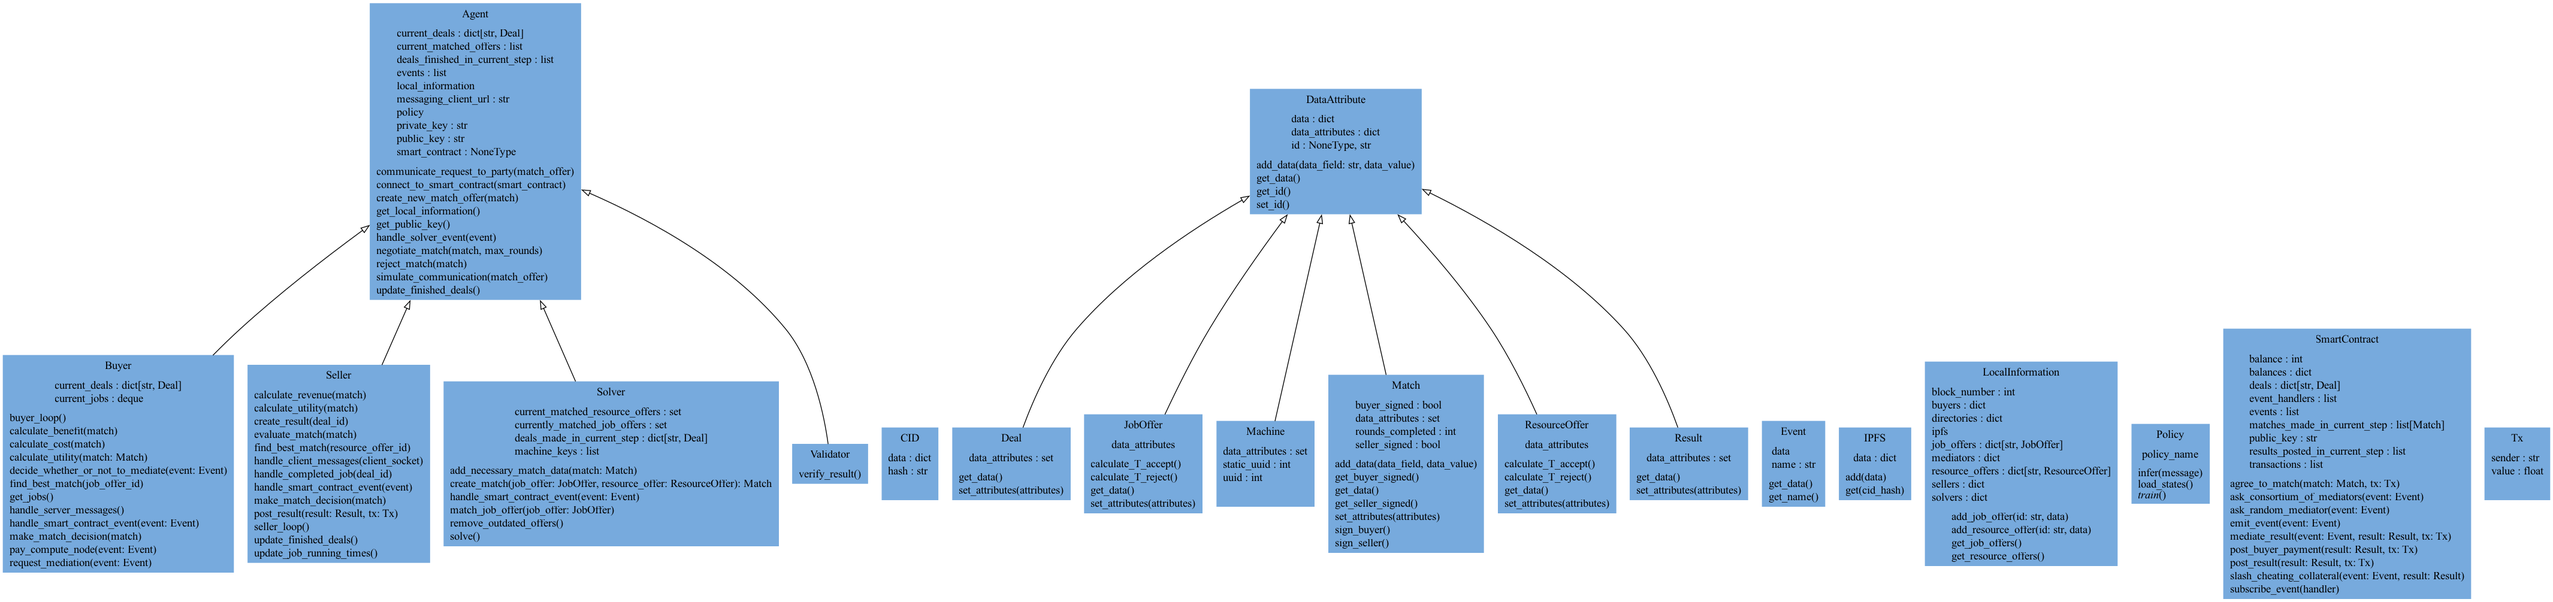
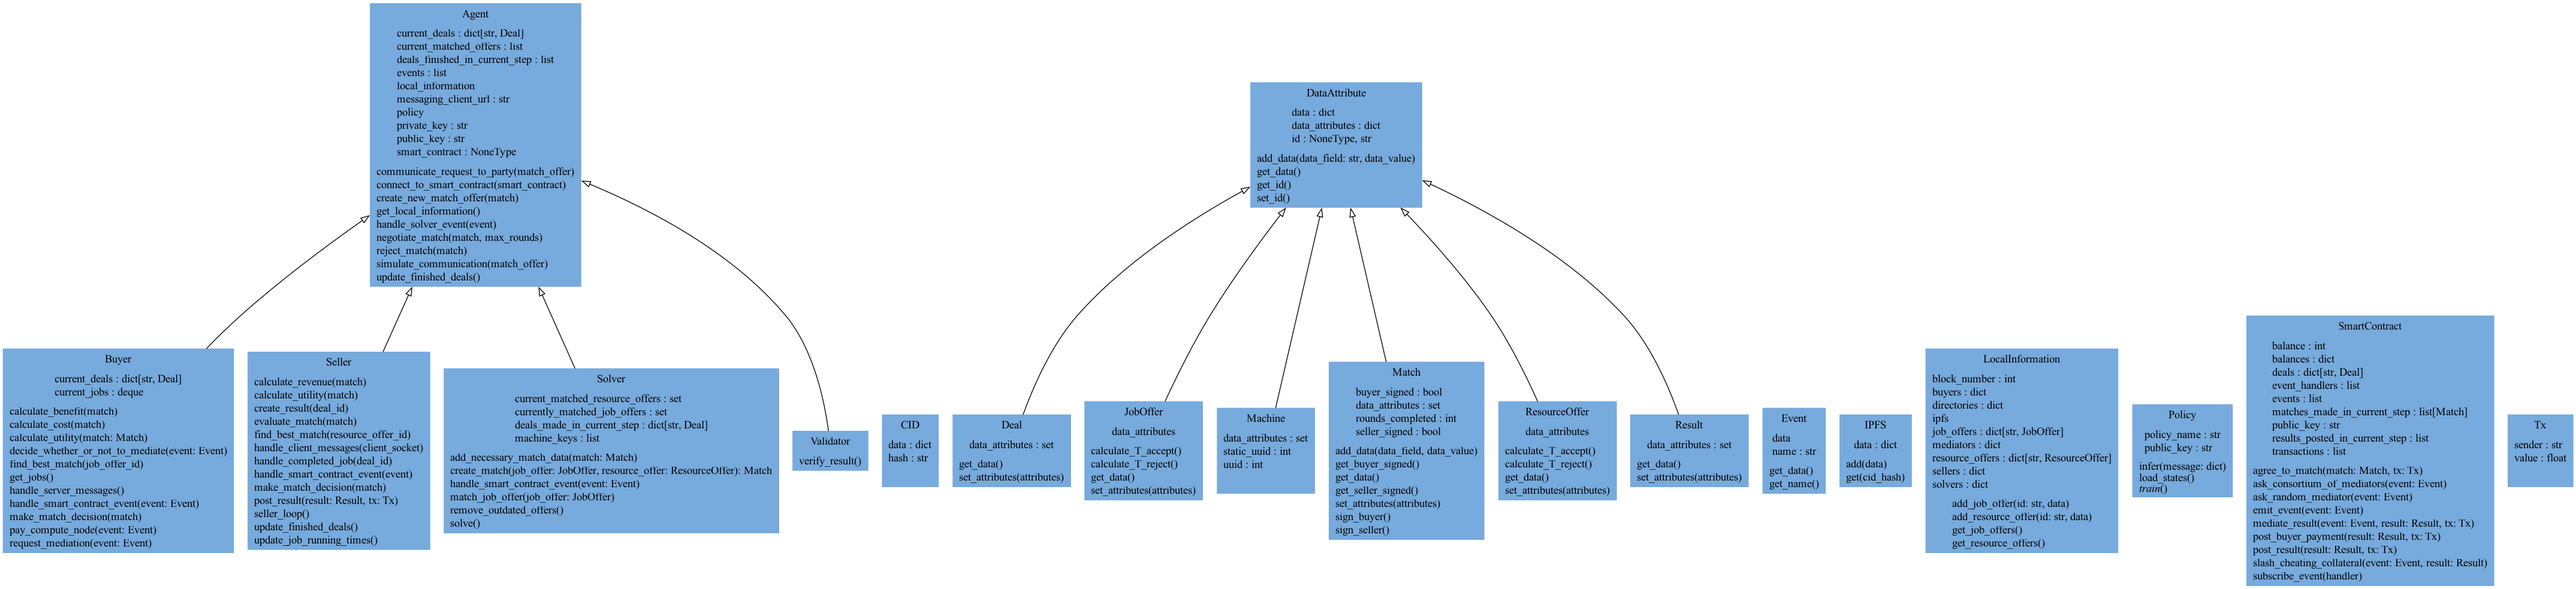
fix: scheme-compliant inference

diff --git a/tests/test_buyer.py b/tests/test_buyer.py
@@ -40,7 +40,7 @@ def setup_buyer():
             public_key_seller: 500,
         }
         buyer._create_transaction = lambda value: Tx(
-            sender=buyer.get_public_key(), value=value
+            sender=buyer.public_key, value=value
         )
         return buyer, smart_contract, match
 
@@ -166,119 +166,6 @@ def test_update_finished_deals(setup_buyer):
     assert (
         len(buyer.deals_finished_in_current_step) == 0
     )  # check if deals_finished_in_current_step is cleared
-
-
-def test_buyer_loop(setup_buyer):
-    """Test the buyer_loop method."""
-    buyer, _, _ = setup_buyer
-    match1 = Match()
-    match1.set_attributes(
-        {
-            "seller_address": "provider1",
-            "buyer_address": "buyer1",
-            "resource_offer": {
-                "owner": "provider1",
-                "machine_id": "machine1",
-                "target_buyer": "buyer1",
-                "created_at": "2024-08-15",
-                "timeout": 10,
-                "CPU": 4,
-                "GPU": 1,
-                "RAM": 16,
-                "prices": [10, 20, 30],
-                "verification_method": "method1",
-                "mediators": ["mediator1", "mediator2"],
-                "price_per_instruction": 10,
-                "expected_number_of_instructions": 1000,
-                "T_accept": 50,
-                "T_reject": 20,
-            },
-            "job_offer": {
-                "owner": "buyer1",
-                "target_buyer": "buyer1",
-                "created_at": "2024-08-15",
-                "timeout": 10,
-                "CPU": 4,
-                "GPU": 1,
-                "RAM": 16,
-                "module": "module1",
-                "prices": [15, 25, 35],
-                "instruction_count": 100,
-                "verification_method": "method1",
-                "mediators": ["mediator1", "mediator2"],
-                "benefit_to_buyer": 2000,
-                "T_accept": 50,
-                "T_reject": 20,
-            },
-            "price_per_instruction": 10,
-            "expected_number_of_instructions": 1000,
-            "expected_benefit_to_buyer": 2000,
-            "buyer_deposit": 100,
-            "timeout": 10,
-            "timeout_deposit": 15,
-            "cheating_collateral_multiplier": 1.5,
-        }
-    )
-
-    match2 = Match()
-    match2.set_attributes(
-        {
-            "seller_address": "provider2",
-            "buyer_address": "buyer2",
-            "resource_offer": {
-                "owner": "provider2",
-                "machine_id": "machine2",
-                "target_buyer": "buyer2",
-                "created_at": "2024-08-15",
-                "timeout": 12,
-                "CPU": 8,
-                "GPU": 2,
-                "RAM": 32,
-                "prices": [20, 40, 60],
-                "verification_method": "method2",
-                "mediators": ["mediator3"],
-                "price_per_instruction": 50,
-                "expected_number_of_instructions": 2000,
-                "T_accept": 70,
-                "T_reject": 30,
-            },
-            "job_offer": {
-                "owner": "buyer2",
-                "target_buyer": "buyer2",
-                "created_at": "2024-08-15",
-                "timeout": 12,
-                "CPU": 8,
-                "GPU": 2,
-                "RAM": 32,
-                "module": "module2",
-                "prices": [25, 50, 75],
-                "instruction_count": 100,
-                "verification_method": "method2",
-                "mediators": ["mediator3"],
-                "benefit_to_buyer": 3000,
-                "T_accept": 70,
-                "T_reject": 30,
-            },
-            "price_per_instruction": 50,
-            "expected_number_of_instructions": 2000,
-            "expected_benefit_to_buyer": 3000,
-            "buyer_deposit": 100,
-            "timeout": 12,
-            "timeout_deposit": 20,
-            "cheating_collateral_multiplier": 1.0,
-        }
-    )
-
-    buyer.current_matched_offers.append(match1)
-    buyer.current_matched_offers.append(match2)
-
-    buyer._agree_to_match = MagicMock()
-    buyer.update_finished_deals = MagicMock()
-
-    buyer.buyer_loop()
-
-    assert buyer.update_finished_deals.call_count == 1
-    assert len(buyer.current_matched_offers) == 0
 
 
 if __name__ == "__main__":

diff --git a/coophive/buyer.py b/coophive/buyer.py
@@ -114,7 +114,7 @@ class Buyer(Agent):
                     "Paying compute node",
                     {"deal_id": deal_id, "payment_value": payment_value},
                 )
-                tx = Tx(sender=self.get_public_key(), value=payment_value)
+                tx = Tx(sender=self.public_key, value=payment_value)
 
                 self.smart_contract.post_buyer_payment(result, tx)
                 self.deals_finished_in_current_step.append(deal_id)
@@ -136,7 +136,7 @@ class Buyer(Agent):
             deal = data
             deal_data = deal.get_data()
             deal_id = deal.get_id()
-            if deal_data["buyer_address"] == self.get_public_key():
+            if deal_data["buyer_address"] == self.public_key:
                 self.current_deals[deal_id] = deal
         elif isinstance(data, Match):
             if event.get_name() == "result":
@@ -203,11 +203,3 @@ class Buyer(Agent):
     def make_match_decision(self, match):
         """Make a decision on whether to accept, reject, or negotiate a match."""
         output_message = self.policy.infer(match)
-
-    # TODO: move this functionality in the networking model, at the agent level
-    def buyer_loop(self):
-        """Process matched offers and update finished deals for the buyer."""
-        for match in self.current_matched_offers:
-            self.make_match_decision(match)
-        self.update_finished_deals()
-        self.current_matched_offers.clear()

diff --git a/tests/test_policy.py b/tests/test_policy.py
@@ -3,7 +3,6 @@ from unittest.mock import MagicMock, patch
 import pytest
 
 from coophive.buyer import Buyer
-from coophive.match import Match
 from coophive.policy import Policy
 from coophive.seller import Seller
 
@@ -56,18 +55,14 @@ def test_make_match_decision_with_policies(setup_agents_with_policies):
     """Test the make_match_decision method with different policies."""
     buyer, seller, policy_c = setup_agents_with_policies
 
-    mock_match = Match()
-    mock_match.set_attributes(
-        {
-            "buyer_address": "buyer_address",
-            "seller_address": "seller_address",
-            "buyer_deposit": 100,
-            "price_per_instruction": 10,
-            "expected_number_of_instructions": 1000,
-        }
-    )
+    mock_message = {
+        "pubkey": "0x123",
+        "offerId": "offer_0",
+        "initial": True,
+        "data": {"_tag": "offer", "query": "hello", "price": ["0x100", 200]},
+    }
 
-    buyer.policy = Policy(policy_name=policy_c)
+    buyer.policy = Policy(public_key=public_key_buyer, policy_name=policy_c)
     buyer.negotiate_match = MagicMock()
 
     # TODO: make this scheme-compliant
@@ -76,7 +71,7 @@ def test_make_match_decision_with_policies(setup_agents_with_policies):
         return "accept"
 
     buyer.policy.infer = MagicMock(side_effect=mock_infer)
-    buyer.policy.infer(mock_match)
+    buyer.policy.infer(mock_message)
 
 
 if __name__ == "__main__":

diff --git a/coophive/agent.py b/coophive/agent.py
@@ -64,10 +64,6 @@ class Agent:
 
         logging.info(f"Agent {self.public_key} initialized.")
 
-    def get_public_key(self):
-        """Get the public key of the agent."""
-        return self.public_key
-
     # TODO: deprecate local information
     def get_local_information(self):
         """Get the local information of the agent."""
@@ -75,7 +71,7 @@ class Agent:
 
     def _create_transaction(self, value):
         """Helper function to create a reusable transaction object."""
-        return Tx(sender=self.get_public_key(), value=value)
+        return Tx(sender=self.public_key, value=value)
 
     def connect_to_smart_contract(self, smart_contract):
         """Connect to a smart contract and subscribe to its events.
@@ -96,7 +92,7 @@ class Agent:
             match = event.get_data()
             if (
                 match.get_data()[f"{self.__class__.__name__.lower()}_address"]
-                == self.get_public_key()
+                == self.public_key
             ):
                 self.current_matched_offers.append(match)
 

diff --git a/coophive/seller.py b/coophive/seller.py
@@ -106,7 +106,7 @@ class Seller(Agent):
             deal = event.get_data()
             deal_data = deal.get_data()
             deal_id = deal.get_id()
-            if deal_data["seller_address"] == self.get_public_key():
+            if deal_data["seller_address"] == self.public_key:
                 self.current_deals[deal_id] = deal
                 # changed to simulate running a docker job
                 container = self.docker_client.containers.run(

diff --git a/coophive/fastapi_app.py b/coophive/fastapi_app.py
@@ -10,6 +10,7 @@ app = FastAPI()
 
 @app.post("/")
 async def inference_endpoint(message: dict):
+    # https://github.com/CoopHive/redis-scheme-client/blob/main/src/scheme.ts#L108
     """Process a message and return the inference result."""
     seller = Seller(
         private_key="your_private_key",  # Replace with actual values or pass dynamically
